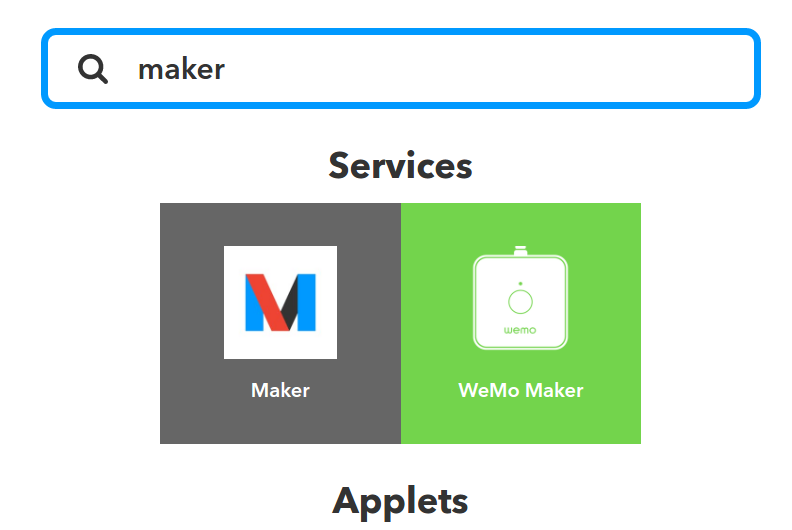
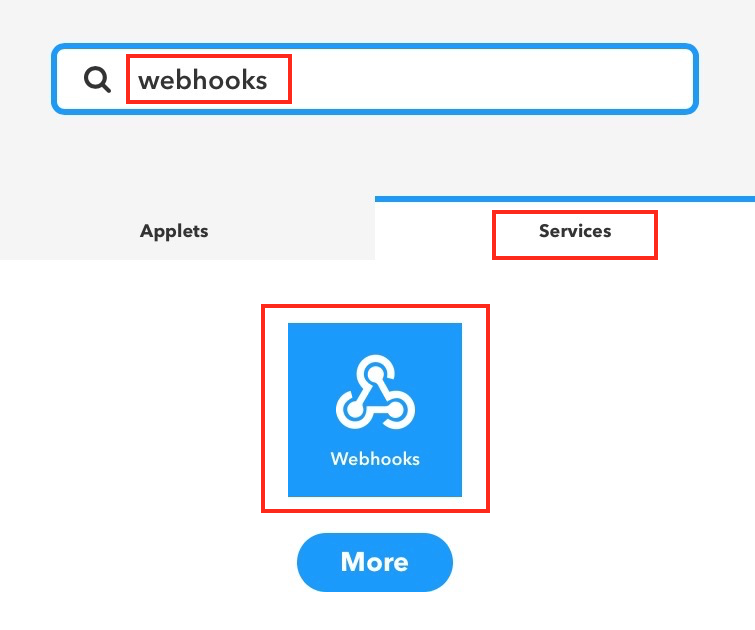
update docs and screenshots (Maker service is now Webhooks) (#83)
* update (Maker service is now Webhooks)

* update docs, screenshots for configuring secret key

diff --git a/docs/Configuring_Your_IFTTT_Secret_Key.rst b/docs/Configuring_Your_IFTTT_Secret_Key.rst
@@ -12,15 +12,15 @@ Obtaining an IFTTT Secret Key
 ^^^^^^^^^^^^^^^^^^^^^^^^^^^^^
 
 1. Go to `ifttt.com <https://ifttt.com/discover>`_ and sign up for an account.
-2. At the top click on ‘Search’ and find ‘Maker’. (Update: this is now named 'Webhook'.)
+2. At the top click on ‘Search’ and find ‘Webhooks’. Click on 'Services'.
 
 .. image:: _static/images/configure_ifttt_channel/secret_key/search_maker.png
 
-3. Click the ‘Connect’ button to create a Maker (Webhook) channel.
+3. Click on the ‘Webhooks’ service to create it.
 
 .. image:: _static/images/configure_ifttt_channel/secret_key/settings_maker.png
 
-4. Click on the gear icon (Settings) on the top-right of the Maker (Webhook) channel to view your key.
+4. Click on the gear icon (Settings) on the top-right of the Webhooks service to view your key.
 
 .. image:: _static/images/configure_ifttt_channel/secret_key/obtain_key.png
 

diff --git a/CHANGES.rst b/CHANGES.rst
@@ -5,6 +5,9 @@ Changelog
 1.0.3 (unreleased)
 ------------------
 
+- update docs, screenshots for configuring secret key
+  [tkimnguyen]
+
 - Add Support for Python 3.
   [pbauer, staeff, Shriyanshagro]
 
